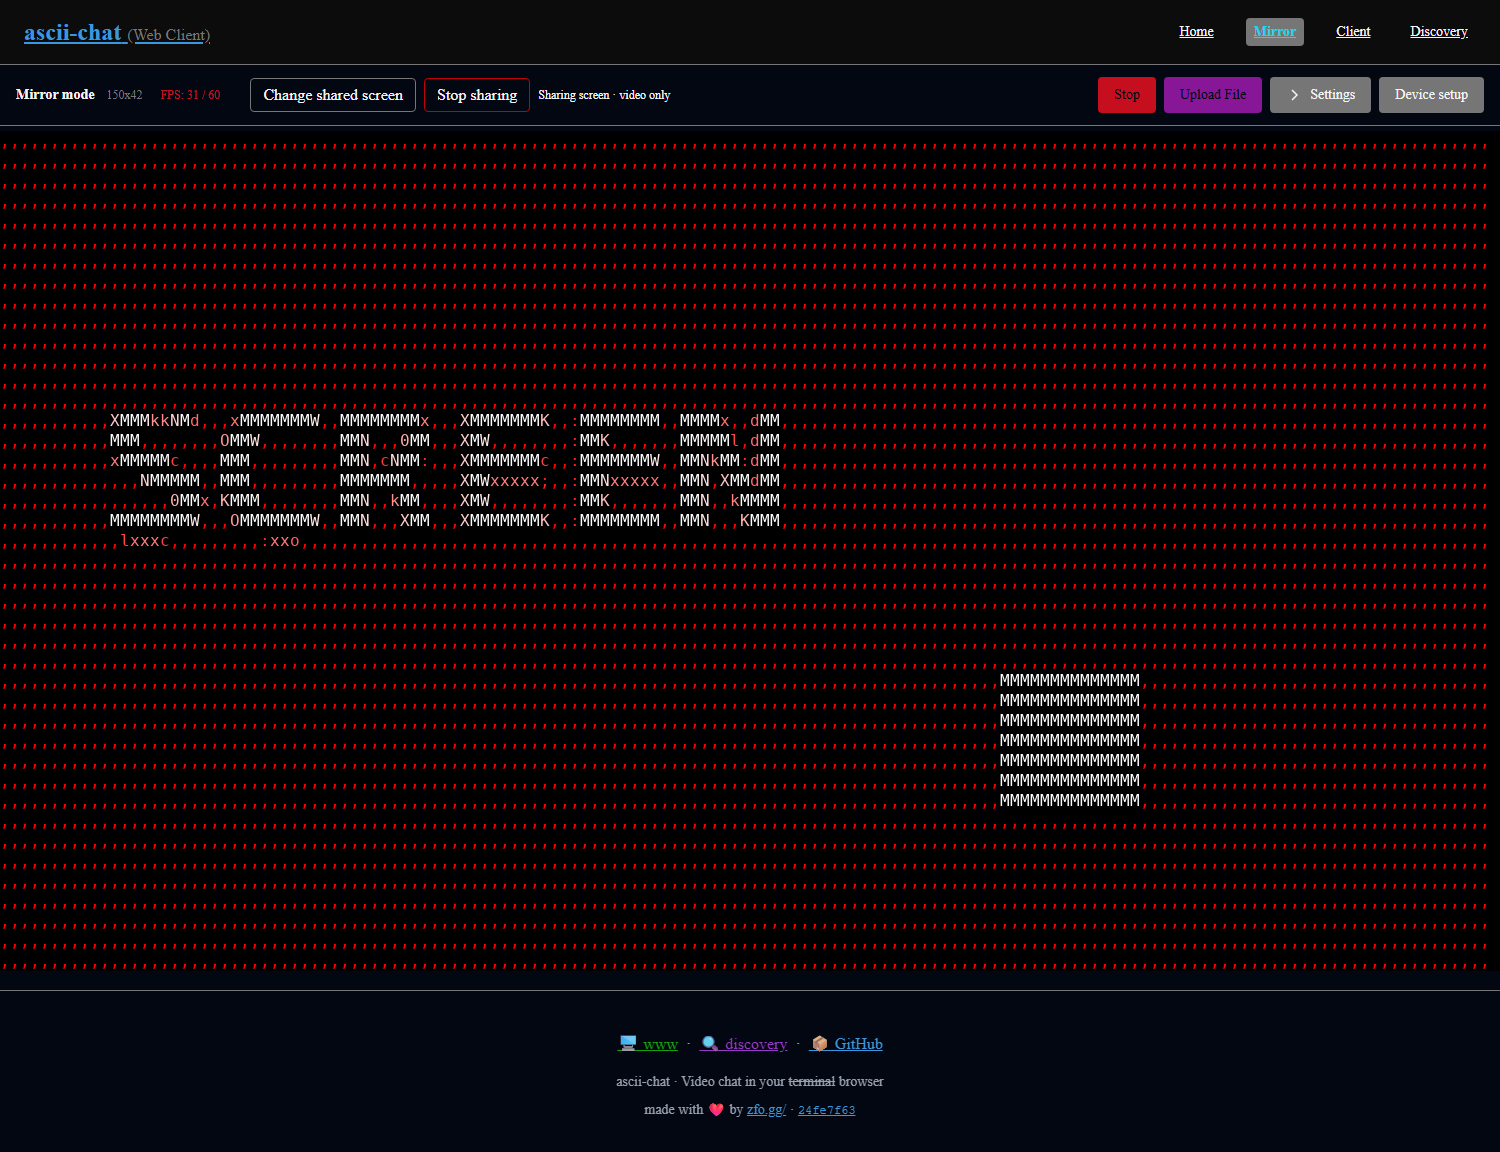
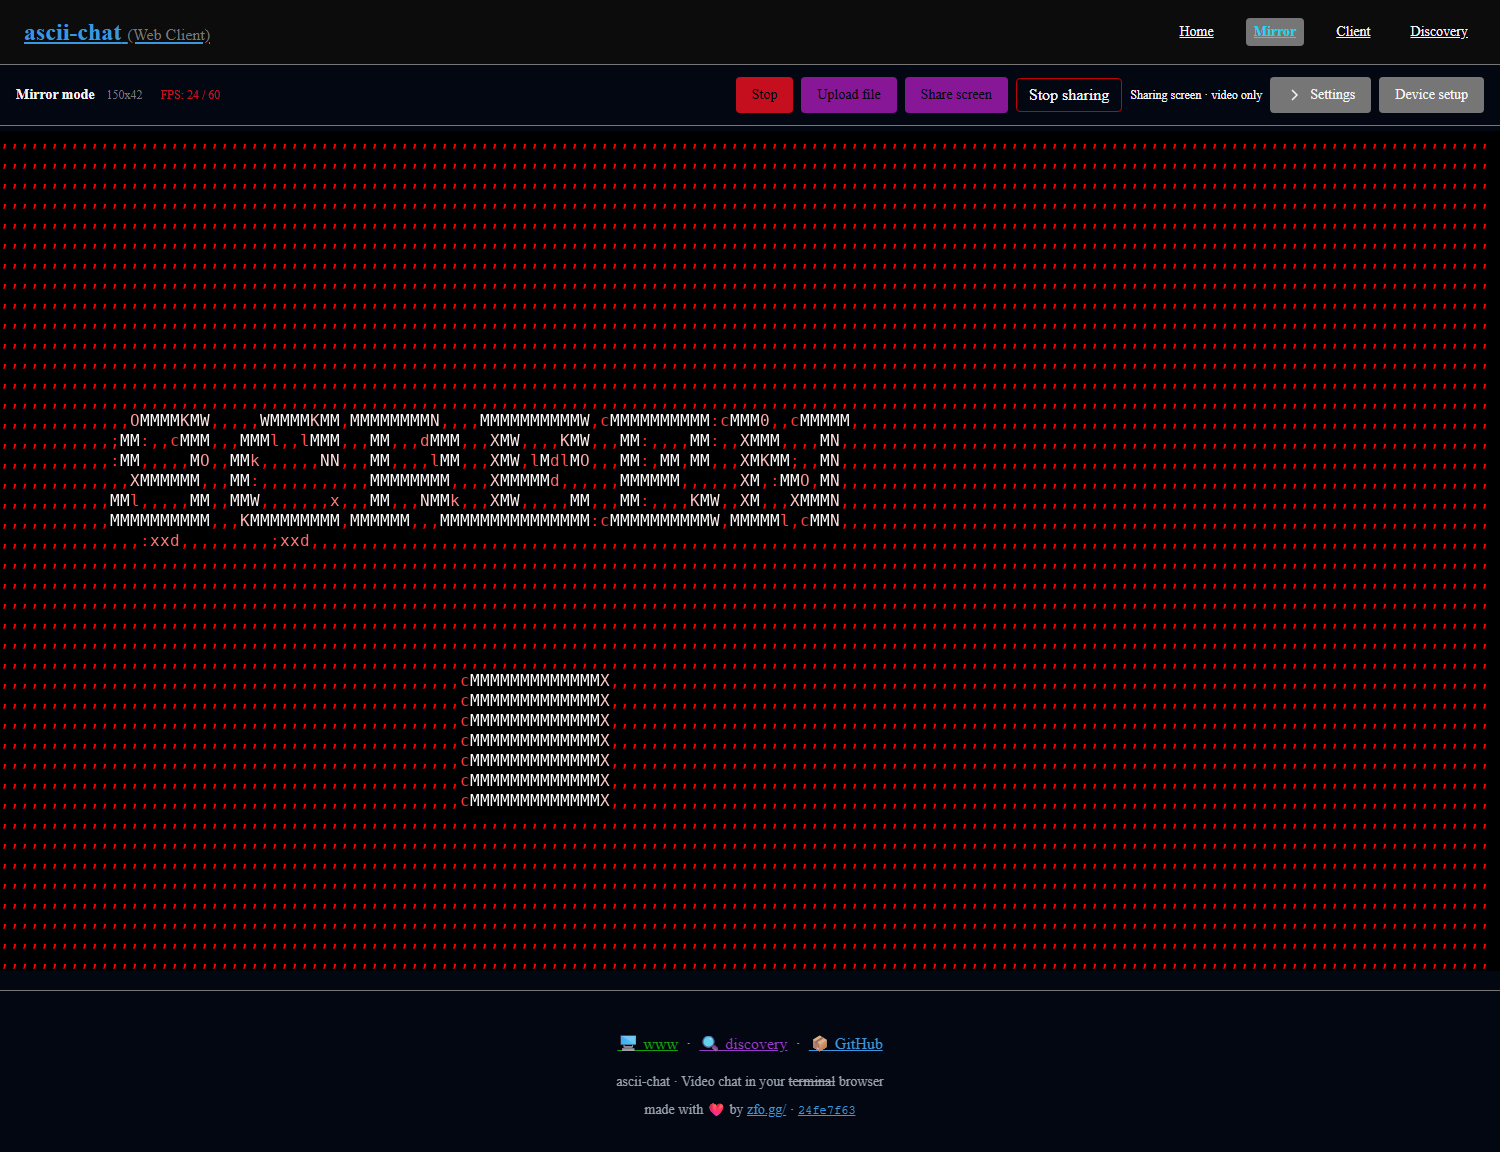
fix(web): retain display microphone lifecycle and align share controls

diff --git a/web/web/tests/e2e/screen-sharing.spec.ts b/web/web/tests/e2e/screen-sharing.spec.ts
@@ -79,6 +79,18 @@ async function fullPageProof(page: Page, file: string) {
     style.maxHeight = `${height}px`;
   });
   await expect.poll(() => redPixels(page)).toBeGreaterThan(1000);
+  const upload = page.getByRole("button", { name: "Upload file", exact: true });
+  const share = page.getByRole("button", { name: "Share screen", exact: true });
+  await expect(share).toHaveClass(/bg-terminal-5/);
+  expect(
+    await share.evaluate((button) =>
+      button.parentElement?.previousElementSibling?.textContent?.trim(),
+    ),
+  ).toBe("Upload file");
+  const uploadBox = await upload.boundingBox(),
+    shareBox = await share.boundingBox();
+  expect(shareBox!.x).toBeGreaterThanOrEqual(uploadBox!.x + uploadBox!.width);
+  expect(Math.abs(shareBox!.y - uploadBox!.y)).toBeLessThan(2);
   await page.screenshot({ path: file, fullPage: true });
   await surface.evaluate((element, style) => {
     if (style === null) element.removeAttribute("style");
@@ -112,12 +124,12 @@ test("Mirror renders display ASCII, cancels, replaces, ends and restores the mic
   await page.evaluate(() => {
     window.displayTest.cancel = true;
   });
-  await page.getByRole("button", { name: "Change shared screen" }).click();
+  await page.getByRole("button", { name: "Share screen", exact: true }).click();
   await expect(
-    page.getByRole("button", { name: "Change shared screen" }),
+    page.getByRole("button", { name: "Share screen", exact: true }),
   ).toBeEnabled();
   await expect(page.getByText("Sharing screen · video only")).toBeVisible();
-  await page.getByRole("button", { name: "Change shared screen" }).click();
+  await page.getByRole("button", { name: "Share screen", exact: true }).click();
   await expect
     .poll(() => page.evaluate(() => window.displayTest.streams.length))
     .toBe(2);
@@ -129,6 +141,7 @@ test("Mirror renders display ASCII, cancels, replaces, ends and restores the mic
     )
     .toBe("ended");
   await page.getByRole("button", { name: "Stop sharing", exact: true }).click();
+  await expect(page.getByText("Sharing screen · video only")).not.toBeVisible();
   await expect(
     page.getByRole("button", { name: "Share screen", exact: true }),
   ).toBeVisible();
@@ -154,6 +167,7 @@ test("Mirror renders display ASCII, cancels, replaces, ends and restores the mic
     track.stop();
     track.dispatchEvent(new Event("ended"));
   });
+  await expect(page.getByText("Sharing screen · video only")).not.toBeVisible();
   await expect(
     page.getByRole("button", { name: "Share screen", exact: true }),
   ).toBeVisible();
@@ -184,7 +198,7 @@ test("Mirror screen sharing from idle returns to idle, and file sharing restores
     ctx.fillRect(0, 0, 320, 180);
     return canvas.toDataURL().split(",")[1]!;
   });
-  await page.getByRole("button", { name: "Upload File", exact: true }).click();
+  await page.getByRole("button", { name: "Upload file", exact: true }).click();
   await page.getByLabel("Choose media file").setInputFiles({
     name: "blue.png",
     mimeType: "image/png",

diff --git a/web/web/tests/hooks/mirror-camera-visualization.test.tsx b/web/web/tests/hooks/mirror-camera-visualization.test.tsx
@@ -159,6 +159,75 @@ test("starting in FFT requests microphone only and does not wait for video metad
   expect(params.videoRef.current.play).not.toHaveBeenCalled();
 });
 
+test("an idle display share acquires microphone audio separately from display video", async () => {
+  const { params } = setup();
+  params.streamRef.current = null;
+  Object.assign(params.videoRef.current, { readyState: 1 });
+  const microphone = track("audio"),
+    display = track("video");
+  const shared = stream([display]);
+  const getUserMedia = vi.fn().mockResolvedValue(stream([microphone]));
+  Object.defineProperty(navigator, "mediaDevices", {
+    configurable: true,
+    value: { getUserMedia },
+  });
+  const { result, unmount } = renderHook(() =>
+    useMirrorWebcam({ ...params, isWebcamRunning: false }),
+  );
+  await act(async () =>
+    expect(await result.current.startWebcam(shared)).toBe(true),
+  );
+  expect(getUserMedia).toHaveBeenCalledOnce();
+  expect(getUserMedia.mock.calls[0]![0].video).toBe(false);
+  expect(getUserMedia.mock.calls[0]![0].audio).not.toBe(false);
+  expect(params.streamRef.current!.getAudioTracks()).toEqual([microphone]);
+  expect(params.setMediaSource).toHaveBeenCalledWith(MediaSourceType.SCREEN);
+  expect(microphone.stop).not.toHaveBeenCalled();
+  unmount();
+});
+
+test.each(["waveform", "fft"] as const)(
+  "restore %s from display reuses the retained microphone without media acquisition",
+  async (animation) => {
+    const { params, mic, camera } = setup();
+    camera.stop();
+    const getUserMedia = vi.fn();
+    Object.defineProperty(navigator, "mediaDevices", {
+      configurable: true,
+      value: { getUserMedia },
+    });
+    vi.stubGlobal(
+      "MediaStream",
+      function (tracks: ReturnType<typeof track>[] = []) {
+        return stream([...tracks]);
+      },
+    );
+    try {
+      const { result, unmount } = renderHook(() =>
+        useMirrorWebcam({
+          ...params,
+          mediaSource: MediaSourceType.SCREEN,
+          settings: { ...DEFAULT_SETTINGS, animationEnabled: true, animation },
+        }),
+      );
+      await act(async () =>
+        expect(await result.current.startWebcam()).toBe(true),
+      );
+      expect(getUserMedia).not.toHaveBeenCalled();
+      expect(params.streamRef.current!.getAudioTracks()).toEqual([mic]);
+      expect(params.streamRef.current!.getVideoTracks()).toHaveLength(0);
+      expect(mic.stop).not.toHaveBeenCalled();
+      expect(params.setMediaSource).toHaveBeenCalledWith(
+        MediaSourceType.WEBCAM,
+      );
+      expect(params.setIsWebcamRunning).toHaveBeenCalledWith(true);
+      unmount();
+    } finally {
+      vi.unstubAllGlobals();
+    }
+  },
+);
+
 test("failed camera restoration requests only the selected camera", async () => {
   const { params, mic } = setup();
   const getUserMedia = vi

diff --git a/web/web/tests/components/upload-file.test.tsx b/web/web/tests/components/upload-file.test.tsx
@@ -10,16 +10,16 @@ import { UploadFile } from "../../src/components/UploadFile";
 import { MAX_MEDIA_FILE_SIZE } from "../../src/utils/mediaUpload";
 afterEach(cleanup);
 
-test("Upload File opens, cancels and reopens", async () => {
+test("Upload file opens, cancels and reopens", async () => {
   const select = vi.fn();
   render(<UploadFile onFileSelect={select} />);
-  fireEvent.click(screen.getByRole("button", { name: "Upload File" }));
+  fireEvent.click(screen.getByRole("button", { name: "Upload file" }));
   expect(screen.getByRole("dialog")).toBeTruthy();
   expect(screen.getByText(/Maximum file size: 8 GB/)).toBeTruthy();
   fireEvent.click(screen.getByRole("button", { name: "Cancel" }));
   expect(select).not.toHaveBeenCalled();
   await waitFor(() => expect(screen.queryByRole("dialog")).toBeNull());
-  fireEvent.click(screen.getByRole("button", { name: "Upload File" }));
+  fireEvent.click(screen.getByRole("button", { name: "Upload file" }));
   await waitFor(() =>
     expect(screen.getByLabelText("Choose media file")).toBeTruthy(),
   );
@@ -29,10 +29,10 @@ for (const [name, type, size] of [
   ["large.mp4", "video/mp4", MAX_MEDIA_FILE_SIZE],
   ["image.png", "image/png", 1],
 ] as const) {
-  test(`Upload File accepts ${name} and closes`, async () => {
+  test(`Upload file accepts ${name} and closes`, async () => {
     const select = vi.fn();
     render(<UploadFile onFileSelect={select} />);
-    fireEvent.click(screen.getByRole("button", { name: "Upload File" }));
+    fireEvent.click(screen.getByRole("button", { name: "Upload file" }));
     const file = new File(["media"], name, { type });
     Object.defineProperty(file, "size", { value: size });
     fireEvent.change(screen.getByLabelText("Choose media file"), {
@@ -43,10 +43,10 @@ for (const [name, type, size] of [
   });
 }
 
-test("Upload File rejects above 8 GB and permits retry", async () => {
+test("Upload file rejects above 8 GB and permits retry", async () => {
   const select = vi.fn();
   render(<UploadFile onFileSelect={select} />);
-  fireEvent.click(screen.getByRole("button", { name: "Upload File" }));
+  fireEvent.click(screen.getByRole("button", { name: "Upload file" }));
   const file = new File(["media"], "large.mp4", { type: "video/mp4" });
   Object.defineProperty(file, "size", { value: MAX_MEDIA_FILE_SIZE + 1 });
   fireEvent.change(screen.getByLabelText("Choose media file"), {

diff --git a/web/web/tests/e2e/face-follow.spec.ts b/web/web/tests/e2e/face-follow.spec.ts
@@ -129,7 +129,7 @@ test("real detector follows a moving face, retains its subject, widens on loss a
   );
   test.setTimeout(90_000);
   await page.goto("/mirror?faceFollow&faceFollowDebug");
-  await page.getByRole("button", { name: "Upload File", exact: true }).click();
+  await page.getByRole("button", { name: "Upload file", exact: true }).click();
   await page.getByLabel("Choose media file").setInputFiles(fixture);
   await expect(page.locator("canvas[data-face-follow]")).toHaveCount(1, {
     timeout: 30_000,
@@ -247,7 +247,7 @@ test("seated shifts hold the view, a brief lean is ignored, and a sustained move
   const seated = path.resolve("../../artifacts/face-follow/seated.mp4");
   test.skip(!existsSync(seated), "Generate the seated fixture first");
   await page.goto("/mirror?faceFollow&faceFollowDebug");
-  await page.getByRole("button", { name: "Upload File", exact: true }).click();
+  await page.getByRole("button", { name: "Upload file", exact: true }).click();
   await page.getByLabel("Choose media file").setInputFiles(seated);
   await expect(page.locator("canvas[data-face-follow]")).toHaveCount(1, {
     timeout: 30_000,
@@ -310,7 +310,7 @@ test("settings panel toggles real framing and the setting survives reload", asyn
   await expect(
     page.getByRole("button", { name: /Face Follow Debug/i }),
   ).toHaveCount(0);
-  await page.getByRole("button", { name: "Upload File", exact: true }).click();
+  await page.getByRole("button", { name: "Upload file", exact: true }).click();
   await page.getByLabel("Choose media file").setInputFiles(fixture);
   await expect(page.locator("canvas[data-face-follow]")).toHaveCount(1, {
     timeout: 30_000,

diff --git a/web/web/src/hooks/useMirrorWebcam.ts b/web/web/src/hooks/useMirrorWebcam.ts
@@ -161,9 +161,27 @@ export function useMirrorWebcam({
       for (let attempt = 0; ; attempt++) {
         owner.signal.throwIfAborted();
         try {
-          stream =
-            providedStream ??
-            (await acquireMediaStream(mediaConstraints, owner.signal));
+          if (providedStream) {
+            stream = providedStream;
+            acquiredStream = stream;
+            if (!retainedAudio.length) {
+              const microphone = await acquireMediaStream(
+                {
+                  video: false,
+                  audio: microphoneConstraints(devicePreferences.microphoneId),
+                },
+                owner.signal,
+              );
+              microphone
+                .getAudioTracks()
+                .forEach((track) => stream!.addTrack(track));
+            }
+          } else if (audioOnly && retainedAudio.length) {
+            // Reattach the retained microphone below without requesting an
+            // invalid getUserMedia({ video: false, audio: false }) stream.
+            stream = new MediaStream();
+          } else
+            stream = await acquireMediaStream(mediaConstraints, owner.signal);
           acquiredStream = stream;
           break;
         } catch (cause) {

diff --git a/web/web/src/components/ScreenShareControls.tsx b/web/web/src/components/ScreenShareControls.tsx
@@ -15,7 +15,7 @@ export function ScreenShareControls({ capture, disabled = false }: Props) {
     <span className="flex flex-wrap items-center gap-2">
       <button
         type="button"
-        className="border border-terminal-8 rounded px-3 py-1 cursor-pointer disabled:opacity-50"
+        className="px-4 py-2 bg-terminal-5 text-terminal-bg rounded hover:bg-terminal-13 text-sm font-medium cursor-pointer disabled:opacity-50"
         disabled={disabled || !capture.supported || capture.selecting}
         title={
           capture.supported
@@ -24,11 +24,7 @@ export function ScreenShareControls({ capture, disabled = false }: Props) {
         }
         onClick={() => void capture.start()}
       >
-        {capture.selecting
-          ? "Choosing screen..."
-          : capture.active
-            ? "Change shared screen"
-            : "Share screen"}
+        {capture.selecting ? "Choosing screen..." : "Share screen"}
       </button>
       {(capture.active || capture.selecting) && (
         <button

diff --git a/web/web/tests/utils/stream-media.test.ts b/web/web/tests/utils/stream-media.test.ts
@@ -2,7 +2,7 @@ import { afterEach, beforeEach, expect, test, vi } from "vite-plus/test";
 import { streamMedia } from "../../src/utils/streamMedia";
 import { MAX_MEDIA_FILE_SIZE } from "../../src/utils/mediaUpload";
 
-test("Upload File keeps an 8 GB native video out of the conversion heap", async () => {
+test("Upload file keeps an 8 GB native video out of the conversion heap", async () => {
   const file = new File(["mp4"], "large.mp4", { type: "video/mp4" });
   Object.defineProperty(file, "size", { value: MAX_MEDIA_FILE_SIZE });
   const result = await streamMedia(
@@ -17,7 +17,7 @@ test("Upload File keeps an 8 GB native video out of the conversion heap", async 
   expect(result).toBe(file);
 });
 
-test("Upload File rejects conversion inputs above 8 GB", async () => {
+test("Upload file rejects conversion inputs above 8 GB", async () => {
   const file = new File(["avi"], "large.avi");
   Object.defineProperty(file, "size", { value: MAX_MEDIA_FILE_SIZE + 1 });
   await expect(

diff --git a/web/web/tests/e2e/upload-file-connected.spec.ts b/web/web/tests/e2e/upload-file-connected.spec.ts
@@ -21,7 +21,7 @@ const media =
 const seekTime = Number(process.env["UPLOAD_TEST_SEEK_SECONDS"] ?? "1");
 
 for (const mode of ["client", "discovery", "mirror"]) {
-  test(`Upload File /${mode}: recognizable file frames ${mode === "mirror" ? "locally" : "through a live server"}`, async ({
+  test(`Upload file /${mode}: recognizable file frames ${mode === "mirror" ? "locally" : "through a live server"}`, async ({
     page,
   }) => {
     test.setTimeout(150_000);
@@ -158,7 +158,7 @@ for (const mode of ["client", "discovery", "mirror"]) {
         await expect(page.locator(".status")).toContainText("Connected");
       }
       await page
-        .getByRole("button", { name: "Upload File", exact: true })
+        .getByRole("button", { name: "Upload file", exact: true })
         .click();
       await page.getByLabel("Choose media file").setInputFiles(media);
       const video = page.locator("video:not([autoplay])");

diff --git a/web/web/tests/e2e/session-ui.spec.ts b/web/web/tests/e2e/session-ui.spec.ts
@@ -390,7 +390,7 @@ test("C owns automatic horizontal orientation and the browser echoes it without 
     page.getByRole("button", { name: "Stop", exact: true }),
   ).toBeVisible();
   await orientation(true);
-  await page.getByRole("button", { name: "Upload File", exact: true }).click();
+  await page.getByRole("button", { name: "Upload file", exact: true }).click();
   await page
     .getByLabel("Choose media file")
     .setInputFiles("tests/fixtures/media/still.png");
@@ -448,7 +448,7 @@ for (const mode of ["client", "discovery"]) {
       }, moduleUrl);
     await expect(horizontal).toHaveAttribute("aria-pressed", "true");
     await page
-      .getByRole("button", { name: "Upload File", exact: true })
+      .getByRole("button", { name: "Upload file", exact: true })
       .click();
     await page
       .getByLabel("Choose media file")

diff --git a/web/web/src/components/PageControlBar.tsx b/web/web/src/components/PageControlBar.tsx
@@ -28,6 +28,7 @@ export interface PageControlBarProps {
   settingsOpen?: boolean | undefined;
   compactVerticalSpacing?: boolean | undefined;
   statusControls?: ReactNode | undefined;
+  uploadControls?: ReactNode | undefined;
 }
 
 export function PageControlBar({
@@ -54,6 +55,7 @@ export function PageControlBar({
   settingsOpen = false,
   compactVerticalSpacing = false,
   statusControls,
+  uploadControls,
 }: PageControlBarProps) {
   const getFpsColor = () => {
     if (fps === undefined || fps === null) return "text-terminal-8";
@@ -171,6 +173,7 @@ export function PageControlBar({
               </button>
             ))}
           {onFileSelect && <UploadFile onFileSelect={onFileSelect} />}
+          {uploadControls}
           {showConnectionButton && (
             <button
               onClick={onConnectionClick}

diff --git a/web/web/src/pages/Mirror.tsx b/web/web/src/pages/Mirror.tsx
@@ -455,12 +455,14 @@ export function MirrorPage() {
                 : fileMedia.status
                   ? `${fileMedia.status} ${fileMedia.fileName}`
                   : fileMedia.fileName,
+              uploadControls: (
+                <ScreenShareControls
+                  capture={screenCapture}
+                  disabled={!wasmInitialized || isStarting}
+                />
+              ),
               statusControls: (
                 <>
-                  <ScreenShareControls
-                    capture={screenCapture}
-                    disabled={!wasmInitialized || isStarting}
-                  />
                   {fileMedia.loading && (
                     <button onClick={stopPlayback}>Cancel</button>
                   )}

diff --git a/web/web/tests/e2e/upload-file.spec.ts b/web/web/tests/e2e/upload-file.spec.ts
@@ -2,7 +2,7 @@ import { expect, test } from "./browser-fixture";
 import path from "node:path";
 
 for (const mode of ["mirror", "client", "discovery"]) {
-  test(`Upload File on /${mode}: header placement, cancel and real playback`, async ({
+  test(`Upload file on /${mode}: header placement, cancel and real playback`, async ({
     page,
   }) => {
     test.setTimeout(120_000);
@@ -10,7 +10,7 @@ for (const mode of ["mirror", "client", "discovery"]) {
     page.on("pageerror", (error) => errors.push(error.message));
     await page.goto(`/${mode}`);
     const upload = page.getByRole("button", {
-      name: "Upload File",
+      name: "Upload file",
       exact: true,
     });
     await expect(upload).toBeVisible();
